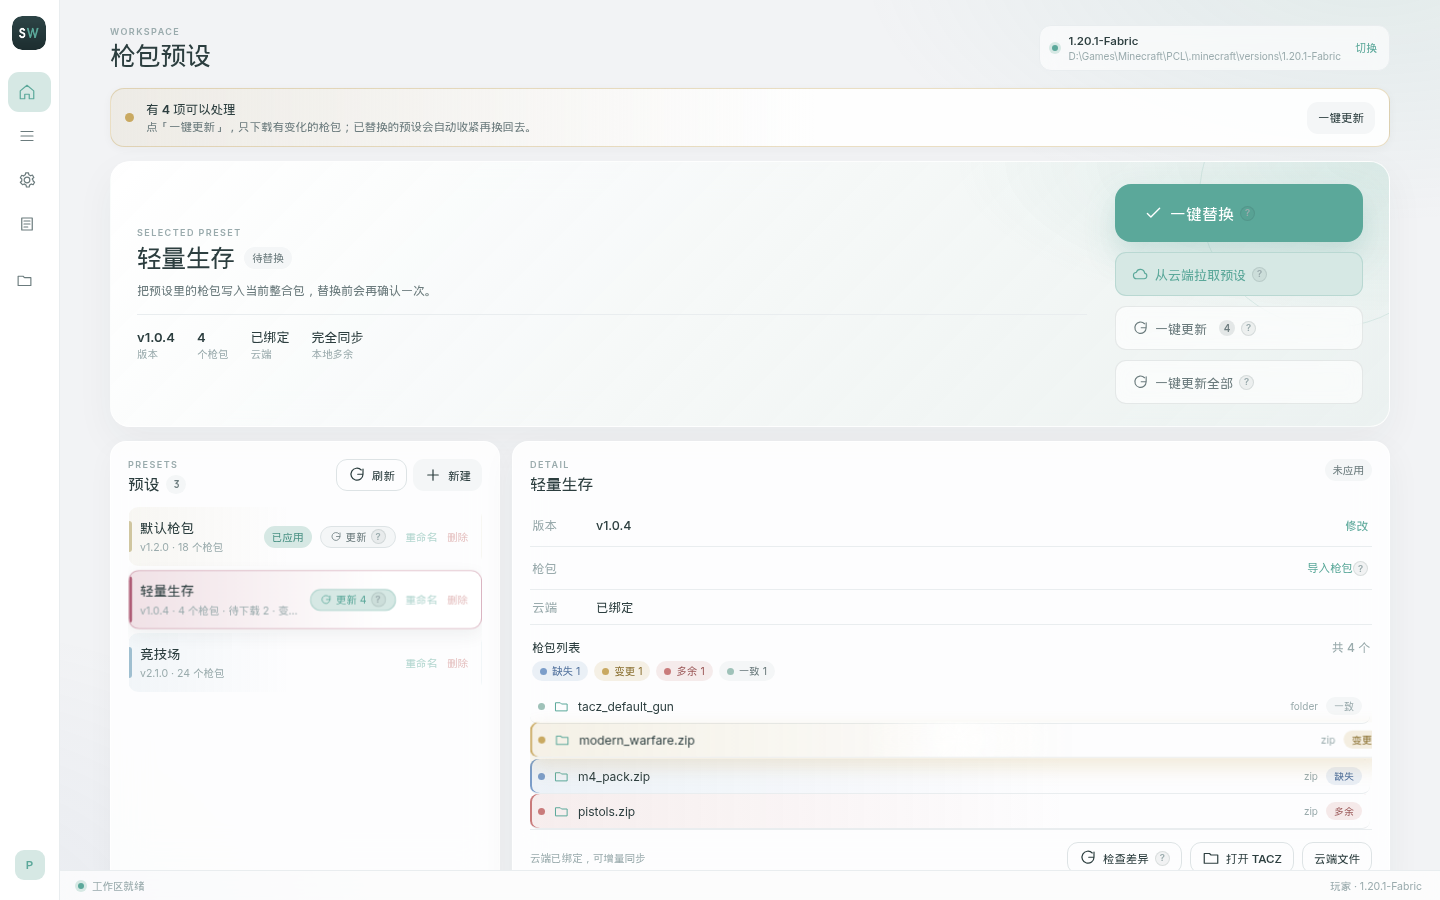
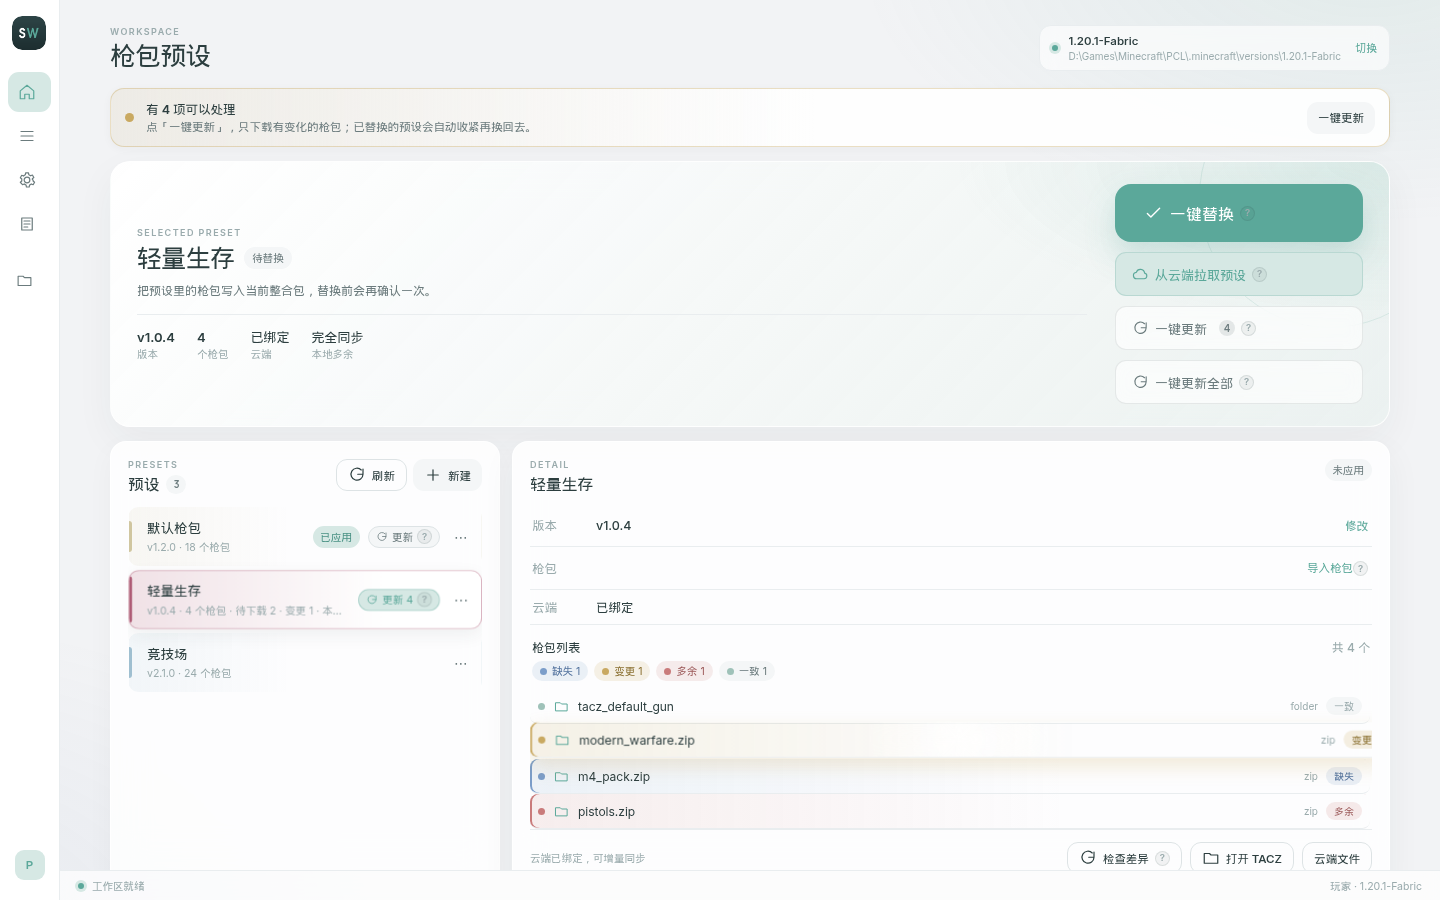
fix(ui): 验收复核后的收尾（引导顺序/行菜单/复制/空预设引导）
- 空预设引导分支提前到"未绑定云端"之前：玩家不会再被引去拉云端
- 预设行改成常驻「⋯」菜单（详情/重命名/删除），避免悬停时布局位移把点击顶到更新按钮；
  主信息区至少 52%，点行中间必定是选中
- 分享链接可手动选中（user-select: text），复制失败也有兜底
- 关闭动画时弹窗/toast 也停用过渡
- 云端添加失败自动清理刚建的空预设，重试不再产生 -2/-3
- 新建空名、空版本号改为就地报错；预设详情读取失败不再卡在"正在读取…"
验证：Python 244 项、test-ui.mjs、test-layout.mjs 全过；截图更新

diff --git a/src/pulses_web/web/src/App.jsx b/src/pulses_web/web/src/App.jsx
@@ -1,5 +1,5 @@
 import React, { useCallback, useEffect, useRef, useState } from 'react'
-import { AnimatePresence, Reorder, motion } from 'motion/react'
+import { AnimatePresence, Reorder, motion, useDragControls } from 'motion/react'
 import Icon from './components/Icons.jsx'
 import Hint from './components/Hint.jsx'
 import CloudFiles from './components/CloudFiles.jsx'
@@ -271,15 +271,15 @@ function nextStepOf(snap) {
   if (!selected) {
     return { tone: 'todo', title: '选一个预设', text: '从左边的预设列表点一个，就能看到它的枪包和操作。', cta: '', action: '' }
   }
+  if (!(selected.count > 0)) {
+    return { tone: 'warn', title: '这个预设还没有枪包', text: '先点「导入枪包」选 .zip 或文件夹；空预设不能替换，否则会把 tacz 清空。', cta: '导入枪包', action: 'import' }
+  }
   if (snap.role === 'player' && !snap.online.binding?.url) {
     return { tone: 'warn', title: '这个预设还没绑定云端', text: '如果别人给了你分享链接，点「从云端拉取预设」；自己做的预设可以直接替换，不用绑定。', cta: '从云端拉取预设', action: 'cloud' }
   }
   const pending = (selected.pending || 0) + (selected.extra || 0)
   if (pending > 0) {
     return { tone: 'todo', title: `有 ${pending} 项可以处理`, text: snap.role === 'developer' ? '点「一键上传」，只上传有变化的枪包，云端多出来的文件不会被动。' : '点「一键更新」，只下载有变化的枪包；已替换的预设会自动收紧再换回去。', cta: snap.role === 'developer' ? '一键上传' : '一键更新', action: 'sync' }
-  }
-  if (!(selected.count > 0)) {
-    return { tone: 'warn', title: '这个预设还没有枪包', text: '先点「导入枪包」选 .zip 或文件夹；空预设不能替换，否则会把 tacz 清空。', cta: '导入枪包', action: 'import' }
   }
   if (!selected.applied) {
     return { tone: 'ready', title: '可以替换到游戏里', text: '点「一键替换」，把这个预设的枪包写进整合包的 tacz；替换前会再确认一次。', cta: '一键替换', action: 'apply' }
@@ -326,6 +326,7 @@ function PresetRow({ item, selected, role, onSelect, onRename, onDelete, onDetai
   const pending = (item.pending || 0) + (item.extra || 0)
   const updateWord = role === 'developer' ? '上传' : '更新'
   const accent = presetAccent(item.name)
+  const [menuOpen, setMenuOpen] = useState(false)
   return (
     <motion.div
       layout
@@ -360,11 +361,34 @@ function PresetRow({ item, selected, role, onSelect, onRename, onDelete, onDetai
             : '把这个预设更新到云端最新，再自动换回游戏。'} />
         </button>
       )}
-      <div className="row-actions" onClick={(e) => e.stopPropagation()}>
-        <button className="text-btn" onClick={() => onRename(item)}>重命名</button>
-        <button className="text-btn danger" onClick={() => onDelete(item)}>删除</button>
+      <div className="row-menu-wrap" onClick={(e) => e.stopPropagation()}>
+        <button className="row-menu-btn" aria-haspopup="menu" aria-expanded={menuOpen}
+          aria-label="更多操作" onClick={() => setMenuOpen((v) => !v)}>⋯</button>
+        {menuOpen && (
+          <div className="row-menu" role="menu">
+            <button role="menuitem" onClick={() => { setMenuOpen(false); onDetails(item) }}>详情</button>
+            <button role="menuitem" onClick={() => { setMenuOpen(false); onRename(item) }}>重命名</button>
+            <button role="menuitem" className="danger" onClick={() => { setMenuOpen(false); onDelete(item) }}>删除</button>
+          </div>
+        )}
       </div>
     </motion.div>
+  )
+}
+
+function PresetItemRow({ item, selected, role, onSelect, onRename, onDelete, onDetails, onUpdate }) {
+  const controls = useDragControls()
+  return (
+    <Reorder.Item value={item.name} as="div" className="preset-item"
+      dragListener={false} dragControls={controls}
+      whileDrag={{ scale: 1.02, boxShadow: '0 14px 30px rgba(44, 62, 63, .14)' }}
+      transition={SPRING}>
+      <button className="preset-grip" aria-label="拖动排序" title="按住拖动排序"
+        onPointerDown={(e) => { e.preventDefault(); controls.start(e) }}>⠿</button>
+      <PresetRow item={item} selected={selected} role={role}
+        onSelect={onSelect} onRename={onRename} onDelete={onDelete}
+        onDetails={onDetails} onUpdate={onUpdate} />
+    </Reorder.Item>
   )
 }
 
@@ -595,14 +619,10 @@ function Home({ snap, actions, busy }) {
               <Reorder.Group axis="y" values={snap.presets.map((p) => p.name)}
                 onReorder={(order) => actions.reorderPresets(order)} className="preset-list" as="div">
                 {snap.presets.length === 0 ? <p className="muted pad">还没有预设</p> : snap.presets.map((p) => (
-                  <Reorder.Item key={p.name} value={p.name} as="div" className="preset-item"
-                    whileDrag={{ scale: 1.02, boxShadow: '0 14px 30px rgba(44,62,63,.14)' }}
-                    transition={SPRING}>
-                    <PresetRow item={p} selected={p.name === snap.selected} role={snap.role}
-                      onSelect={actions.select} onRename={actions.rename} onDelete={actions.delete}
-                      onDetails={actions.presetDetails}
-                      onUpdate={(item) => (snap.role === 'developer' ? actions.publishAuto(item.name) : actions.syncAuto(item.name))} />
-                  </Reorder.Item>
+                  <PresetItemRow key={p.name} item={p} selected={p.name === snap.selected} role={snap.role}
+                    onSelect={actions.select} onRename={actions.rename} onDelete={actions.delete}
+                    onDetails={actions.presetDetails}
+                    onUpdate={(item) => (snap.role === 'developer' ? actions.publishAuto(item.name) : actions.syncAuto(item.name))} />
                 ))}
               </Reorder.Group>
             </section>
@@ -1202,7 +1222,7 @@ export default function App() {
     catch (err) { showToast(err.message, 'error') }
   }, [showToast])
   const createPreset = useCallback(async (name) => {
-    if (!name?.trim()) return
+    if (!name?.trim()) throw new Error('预设名不能为空')
     try { const state = await invoke('preset.create', { name: name.trim() }); setSnap(state); showToast('预设已创建', 'success') }
     catch (err) { showToast(err.message, 'error') }
   }, [showToast])
@@ -1226,6 +1246,7 @@ export default function App() {
       } catch (err) { showToast(err.message, 'error'); throw err }
     }), [confirm, showToast])
   const saveVersion = useCallback(async (name, version) => {
+    if (!String(version || '').trim()) throw new Error('版本号不能为空')
     try { const state = await invoke('preset.version', { name, version }); setSnap(state); showToast('版本已保存', 'success') }
     catch (err) { showToast(err.message, 'error') }
   }, [showToast])
@@ -1406,6 +1427,8 @@ export default function App() {
         ? { ...m, details } : m)
     } catch (err) {
       showToast(err.message, 'error')
+      setModal((m) => (m?.kind === 'preset' && m.preset?.name === preset.name
+        ? { ...m, details: { error: err.message } } : m))
     }
   }, [refresh, showToast])
   const actions = { openPack, openCloud, startJob, reorderPresets, detach, cloudDelete, openTacz, clearCache, clearLogs, addFromCloud, openDatabase, select, createPreset, rename, delete: remove, saveVersion, apply, bind, unbind, check, sync, syncAuto, publishAuto, syncAllAuto, publishAllAuto, publishNew, publishPlan, publish, login, logout, updateSettings, switchRole, prompt, toast: showToast, navigate, cancelJob, presetDetails: openPresetDetail, importGunpacks }

diff --git a/src/pulses_web/web/src/styles.css b/src/pulses_web/web/src/styles.css
@@ -959,8 +959,8 @@ h3 { font-size: 15px; font-weight: 600; }
   transition: opacity 240ms var(--ease-out), transform 420ms var(--ease-spring);
 }
 .preset-row:hover .preset-sheen { opacity: .55; transform: translateX(0); }
-.row-actions { display: flex; opacity: .45; transition: opacity 180ms; }
-.preset-row:hover .row-actions, .preset-row:focus-within .row-actions { opacity: 1; }
+.row-actions { display: none; gap: 6px; }
+.preset-row:hover .row-actions, .preset-row:focus-within .row-actions { display: flex; }
 
 .gunpack-row { position: relative; overflow: hidden; isolation: isolate; will-change: transform;
   transition: box-shadow 220ms var(--ease-out), background 220ms var(--ease-out); }
@@ -1066,3 +1066,35 @@ h3 { font-size: 15px; font-weight: 600; }
 .animations-off .preset-row:hover, .animations-off .gunpack-row:hover,
 .animations-off .btn:active, .animations-off .nav-item:active { transform: none !important; }
 .animations-off .preset-sheen, .animations-off .gp-glow { opacity: 0 !important; }
+
+.share-row code { user-select: text; -webkit-user-select: text; }
+.animations-off .modal-card, .animations-off .toast, .animations-off .modal-mask {
+  transition: none !important; animation: none !important; }
+
+/* 拖动排序的手柄：只在悬停/聚焦时出现，避免误触 */
+.preset-item { position: relative; }
+.preset-grip { position: absolute; left: 2px; top: 50%; transform: translateY(-50%); z-index: 3;
+  width: 14px; height: 22px; display: grid; place-items: center; border-radius: 6px;
+  color: var(--muted); font-size: 11px; opacity: 0; cursor: grab; touch-action: none;
+  transition: opacity 140ms; }
+.preset-item:hover .preset-grip, .preset-item:focus-within .preset-grip { opacity: .8; }
+.preset-grip:hover { background: var(--input); color: var(--accent); }
+.preset-item .preset-row { padding-left: 18px; }
+
+/* 主信息区至少占一半，点行中间一定是"选中"，不会误点到更新按钮 */
+.preset-main { flex: 1 1 52%; }
+.preset-row > .pill { flex: none; }
+.mini-btn { padding: 0 7px; }
+
+/* 预设行右侧「⋯」菜单：常驻但只占 22px，不挤压主信息、不引起悬停位移 */
+.row-menu-wrap { position: relative; flex: none; }
+.row-menu-btn { width: 22px; height: 22px; border-radius: 6px; color: var(--text-2);
+  display: grid; place-items: center; font-size: 14px; line-height: 1; }
+.row-menu-btn:hover, .row-menu-btn[aria-expanded="true"] { background: var(--input); color: var(--accent); }
+.row-menu { position: absolute; right: 0; top: calc(100% + 4px); z-index: 30; min-width: 96px;
+  padding: 4px; border-radius: 9px; background: var(--panel); border: 1px solid var(--border);
+  box-shadow: 0 10px 24px rgba(44, 62, 63, .12); display: grid; gap: 2px; }
+.row-menu button { text-align: left; padding: 6px 9px; border-radius: 6px; font-size: 11.5px; }
+.row-menu button:hover { background: var(--input); }
+.row-menu button.danger { color: var(--error); }
+.row-actions { display: none !important; }

diff --git a/src/pulses_web/controller.py b/src/pulses_web/controller.py
@@ -786,8 +786,16 @@ class AppController:
             n += 1
             preset_name = f"{base}-{n}"
         self.create_preset(preset_name)
-        self.bind_source(preset_name, url, password)
-        out = self.sync_auto(preset_name, ctx=ctx)
+        try:
+            self.bind_source(preset_name, url, password)
+            out = self.sync_auto(preset_name, ctx=ctx)
+        except Exception:
+            # 失败不留空预设，避免重试时出现 -2 / -3
+            try:
+                self.delete_preset(preset_name)
+            except Exception:
+                pass
+            raise
         out["message"] = f"已从云端添加「{preset_name}」 · {out.get('message', '')}"
         return out
 
@@ -1160,6 +1168,7 @@ class AppController:
 
     @_locked
     def publish_new(self, name: str, ctx=None):
+        """开发者把未绑定本地预设上传到云端，自动创建 /PulsesSwap/<name>。"""
         pm = self.preset_manager
         info = (pm.presets.get(name) if pm else None) or {}
         if not info.get("gunpacks"):
@@ -1171,7 +1180,6 @@ class AppController:
                 info = pm.presets.get(name) or {}
             if not info.get("gunpacks"):
                 raise ValueError("这个预设还没有枪包：先点「导入枪包」，再上传到云端")
-        """开发者把未绑定本地预设上传到云端，自动创建 /PulsesSwap/<name>。"""
         if self.role != "developer":
             raise PermissionError("只有开发者可以发布")
         if not self.preset_manager or name not in self.preset_manager.presets:

diff --git a/docs/入口检查.md b/docs/入口检查.md
@@ -17,6 +17,8 @@
 | 上传到云端是个死胡同 | 管理页新增 **「云端文件」页签**：浏览 / 面包屑 / 新建文件夹 / 上传 / 删除 / 容量 |
 | 发布完不知道分享链接在哪 | 绑定卡片显示分享链接 + 「复制」按钮；发布提示里也指向它 |
 | 绑错了没法撤 | 绑定卡片新增 **「解除绑定」**（本地文件不动） |
+| 发布完找不到分享链接 | 绑定卡片直接显示链接 +「复制」；发布提示也指向它 |
+| 已应用预设不能导入/删除 | 详情卡「收回」；删除已应用预设自动先收回 |
 | 失败消息 3 秒就没了 | 错误提示常驻 9 秒，带 **「重试」**；网络类错误**自动重试一次** |
 | 弹窗先关再执行，失败要重填 | 失败时弹窗不关，错误就地显示，已填内容保留 |
 | 绑定完不知道下一步 | 绑定时自动检查一次云端，直接出差异 |
@@ -68,7 +70,8 @@
 
 - 统一弹簧令牌：`SPRING(430/34)`、`SPRING_SOFT(260/30)`、`SPRING_SNAP(620/38)`。
 - 枪包行：悬浮放大 1.022 + 上浮 1.5px + 跟随鼠标的高光；按下 0.988；状态色条与阴影同时亮起。
-- 预设行：名字哈希生成稳定强调色（连续色相、低饱和），左侧色条随悬浮/选中伸展；
+- 预设行：右侧常驻「⋯」菜单（详情/重命名/删除），不挤压主信息、不因悬停位移；
+  名字哈希生成稳定强调色（连续色相、低饱和），左侧色条随悬浮/选中伸展；
   悬浮放大 1.015 + 上浮 + 柔光；选中状态用同色淡底。
 - 按钮 / 导航 / 列表行按下都会缩一点再弹回（120ms 弹簧），点击不是"死的"。
 - 预设列表支持**拖动排序**：拖起时有抬起阴影，松手用弹簧落位，顺序写进缓存（重启仍生效）。
